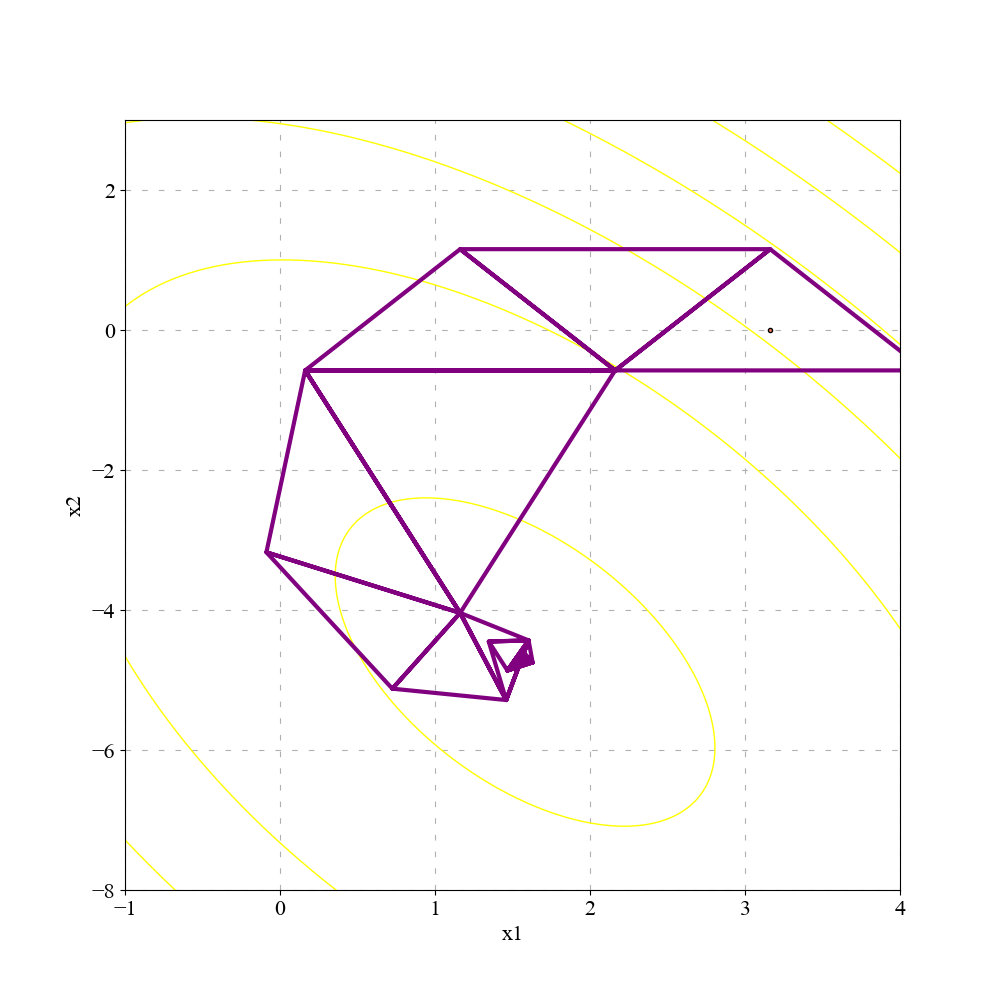
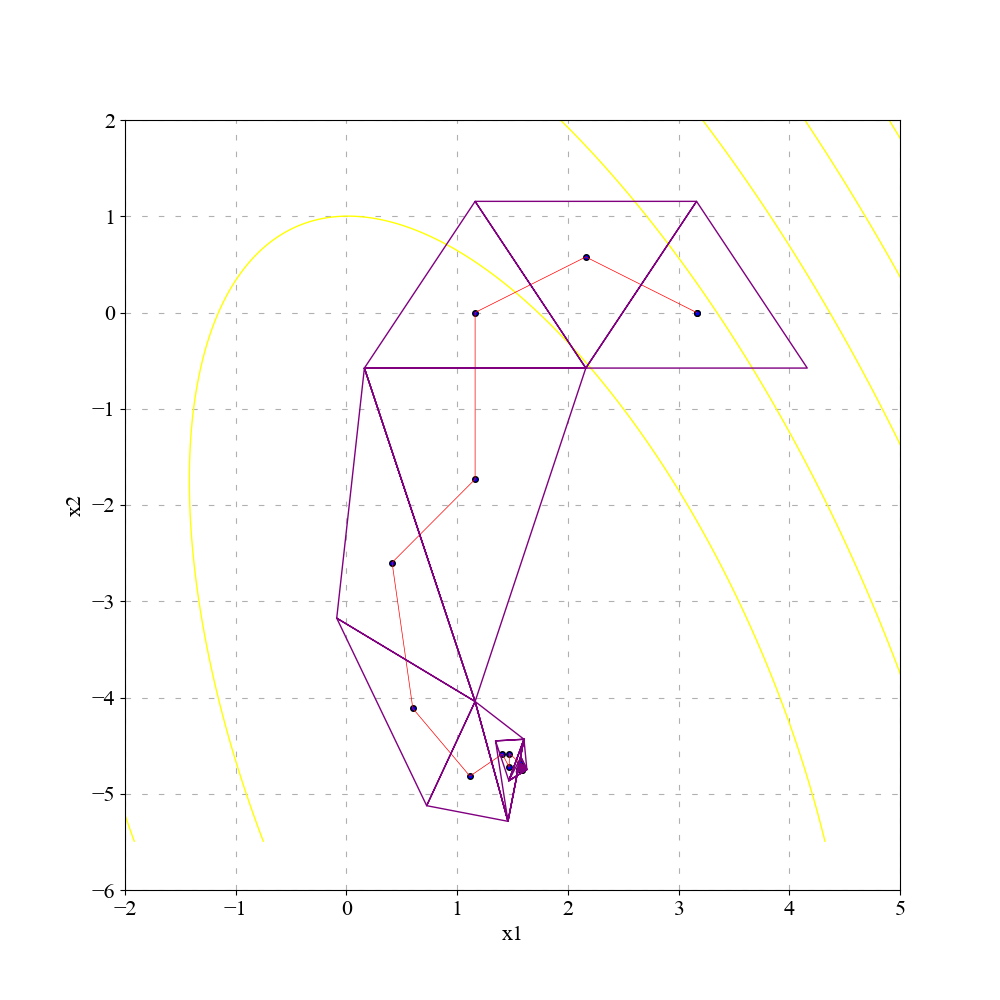
asd

diff --git a/sch/sch3.py b/sch/sch3.py
@@ -21,12 +21,13 @@ def X(x):
 def f(x): 
     return (1/2*float(np.dot(np.dot(np.transpose(x),Q),x))+float(np.dot(np.transpose(b),x))+ c) 
 #константы и функции для построения графика 
-left = -1
-rigth = 4
-bottom = -8
-top = 3
+left = -2
+rigth = 5
+bottom = -5
+top = 2
 x1, x2 = np.mgrid[left-0.5:rigth+0.5:0.01,bottom-0.5:top+0.5:0.01] 
 zg = 11*x1**2+3*x2**2+6*x1*x2-2*np.sqrt(10)*(x1-3*x2)-22 
+flag = False
 
 def graph(label,x,fx): #функция построения графика 
     fig, ax = plt.subplots() 
@@ -34,22 +35,31 @@ def graph(label,x,fx): #функция построения графика
     ax.set_ylabel("x2") 
     fig.set_figwidth(10) 
     fig.set_figheight(10) 
-    ax.contour(x1, x2, zg, colors = 'yellow',linewidths=1, linestyles = 'solid')     
-    ax.axis([left, rigth, bottom, top]) 
+    ax.contour(x1, x2, zg, colors = 'yellow',linewidths=1, linestyles = 'solid')
+    if(flag):
+       bottom = -6
+    ax.axis([left, rigth, -6, top])
+    ax.axis([left, rigth, bottom, top])
     xg = [] 
     yg = [] 
     xg_m = [] 
     yg_m = [] 
+    ax.plot(x0[0], x0[1], color = 'blue', marker='o', markersize=4, markeredgecolor="black") 
     for k in range(len(x)): 
         xg_m.append(float(x_m[k][0][0])) 
-        yg_m.append(float(x_m[k][1][0])) 
+        yg_m.append(float(x_m[k][1][0]))  
+        # if k == 0:
+        #     ax.plot(x0[0], x0[1], float(x_m[k][0][0]), float(x_m[k][1][0]), color = 'red',lw=15) 
+        # else:
+        #     ax.plot(float(x_m[k - 1][0][0]), float(x_m[k - 1][1][0]), float(x_m[k][0][0]), float(x_m[k][1][0]), color = 'red',lw=3) 
+        ax.plot(float(x_m[k][0][0]), float(x_m[k][1][0]), color = 'blue', marker='o', markersize=4, markeredgecolor="black")
         for j in range(i): 
-            xg.append(float(x[k][j][0][0]))             
-            yg.append(float(x[k][j][1][0]))         
+            xg.append(float(x[k][j][0][0]))
+            yg.append(float(x[k][j][1][0]))
         xg.append(float(x[k][0][0][0])) 
-        yg.append(float(x[k][0][1][0])) 
-    ax.plot(x0[0], x0[1],color = 'coral', marker='o', markersize=3, markeredgecolor="black") 
-    ax.plot(xg, yg, color = 'purple',lw=3) 
+        yg.append(float(x[k][0][1][0]))
+    ax.plot(xg_m, yg_m, color = 'red',lw=0.5)
+    ax.plot(xg, yg, color = 'purple',lw=1)  
     plt.grid(linestyle = (0, (5, 10))) 
     plt.savefig(os.path.join(dir_,f"3_{label}.png"), format = 'png') 
 def write(k,x,fx,s): #запись данных в файл 
@@ -111,6 +121,7 @@ while stop(x[k]) > epsilon:
         fx[k].append(f(x[k][j])) 
     write(k,x,fx,stop(x[k])) 
 print(len(x),x[k][0],f(x[k][0])) 
+flag = True
 graph(label,x,fx) 
 label = f'Нелдера-Мида (l = {l})' 
 print(label) 
@@ -128,7 +139,6 @@ x.append([])
 fx.append([]) 
 x_m.append(x0) 
 z.append([]) 
-#z.append([0,0,0,0]) 
 h = (l**2-(l/2)**2)**(0.5) 
 x[k].append(X([-l/2+x0[0][0],x0[1][0]-h/3])) 
 x[k].append(X([l/2+x0[0][0],x0[1][0]-h/3])) 

diff --git a/sch/sch.py b/sch/sch.py
@@ -20,10 +20,10 @@ def f(x):
     return (1/2*float(np.dot(np.dot(np.transpose(x),Q),x))+float(np.dot(np.transpose(b),x))+ c) 
 
 #константы и функции для построения графика 
-left = -5
-rigth = 10
-bottom = -15
-top = 5
+left = -2
+rigth = 6
+bottom = -7.5
+top = 2.5
 x1, x2 = np.mgrid[left-0.5:rigth+0.5:0.01,bottom-0.5:top+0.5:0.01] 
 zg = 11*x1**2+3*x2**2+6*x1*x2-2*np.sqrt(10)*(x1-3*x2)-22 
 
